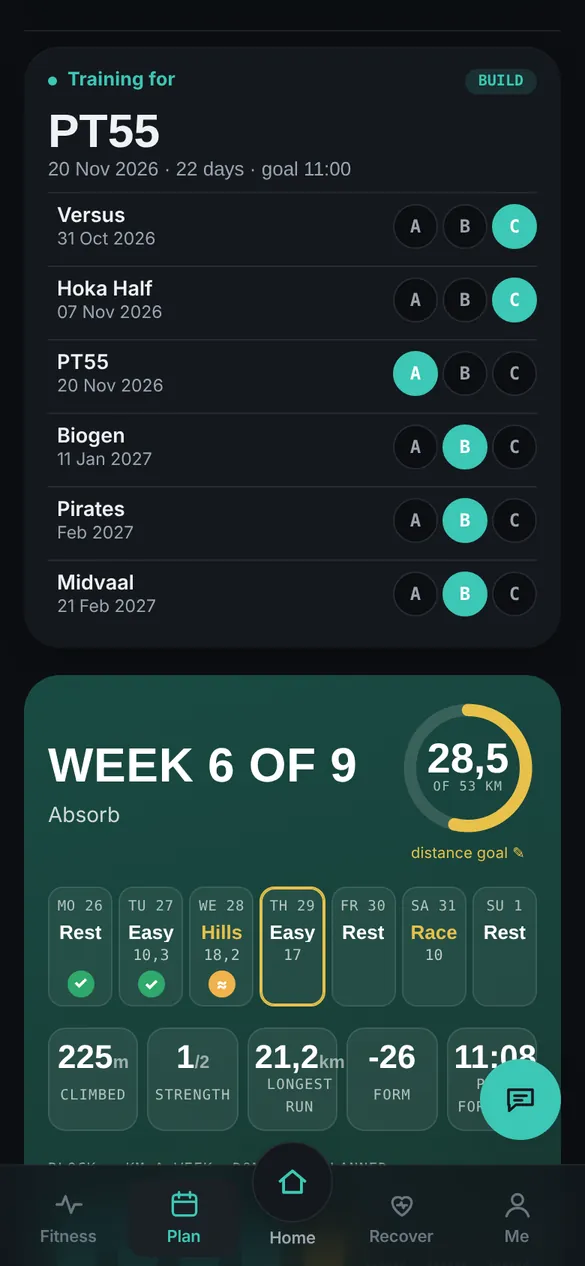
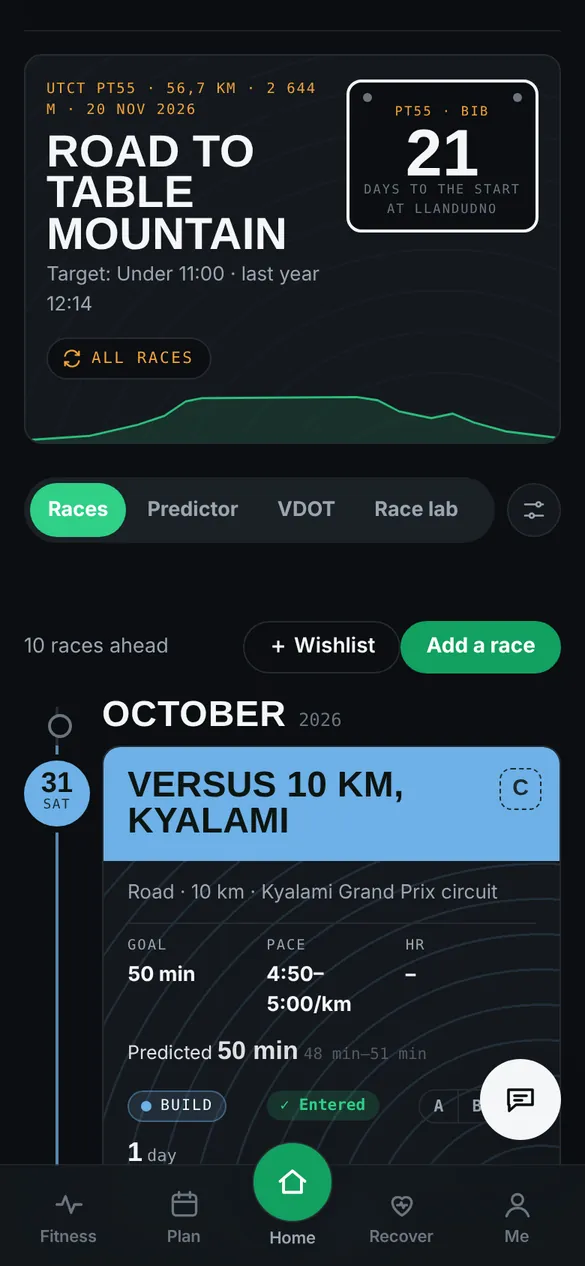
Startline page: new UI screenshots, plus Awards
Claude-Session: https://claude.ai/code/session_01UXXcUucnSfuN5ZBDDhgEJA

diff --git a/app-startline.html b/app-startline.html
@@ -72,7 +72,7 @@
 <section class="section">
   <div class="wrap">
     <div class="head reveal"><div><h2 class="h2">Inside the app<span class="dot">.</span></h2><p class="lead">Real screens from the beta, on our own training.</p></div></div>
-    <div class="shots reveal"><figure class="shot"><div class="shot-frame"><img src="/img/apps/sl-today.webp" alt="Startline, Home screen" width="585" height="1266" loading="lazy"></div><figcaption>Home: today and tomorrow, session by session</figcaption></figure><figure class="shot"><div class="shot-frame"><img src="/img/apps/sl-athlete.webp" alt="Startline, Athlete card screen" width="585" height="1266" loading="lazy"></div><figcaption>Athlete card: six ratings and one overall score</figcaption></figure><figure class="shot"><div class="shot-frame"><img src="/img/apps/sl-efficiency.webp" alt="Startline, Metres per heartbeat screen" width="585" height="1266" loading="lazy"></div><figcaption>Metres per heartbeat: fitness from easy runs</figcaption></figure><figure class="shot"><div class="shot-frame"><img src="/img/apps/sl-race.webp" alt="Startline, Race calendar with A, B and C priorities, and the week in the block screen" width="585" height="1266" loading="lazy"></div><figcaption>Race calendar with A, B and C priorities, and the week in the block</figcaption></figure><figure class="shot"><div class="shot-frame"><img src="/img/apps/sl-week.webp" alt="Startline, Week plan screen" width="585" height="1266" loading="lazy"></div><figcaption>Week plan: changes made from your sessions, day by day</figcaption></figure></div>
+    <div class="shots reveal"><figure class="shot"><div class="shot-frame"><img src="/img/apps/sl-today.webp" alt="Startline, Home screen" width="585" height="1266" loading="lazy"></div><figcaption>Home: today's session, readiness and the coach's tips</figcaption></figure><figure class="shot"><div class="shot-frame"><img src="/img/apps/sl-athlete.webp" alt="Startline, Athlete card screen" width="585" height="1266" loading="lazy"></div><figcaption>Athlete card: six ratings and one overall score</figcaption></figure><figure class="shot"><div class="shot-frame"><img src="/img/apps/sl-efficiency.webp" alt="Startline, Metres per heartbeat screen" width="585" height="1266" loading="lazy"></div><figcaption>Metres per heartbeat: fitness from easy runs</figcaption></figure><figure class="shot"><div class="shot-frame"><img src="/img/apps/sl-race.webp" alt="Startline, Road to race day screen" width="585" height="1266" loading="lazy"></div><figcaption>Road to race day: countdown and every race with A, B and C priorities</figcaption></figure><figure class="shot"><div class="shot-frame"><img src="/img/apps/sl-week.webp" alt="Startline, Plan screen" width="585" height="1266" loading="lazy"></div><figcaption>Plan: the race, the block and the week, adapted from your sessions</figcaption></figure><figure class="shot"><div class="shot-frame"><img src="/img/apps/sl-awards.webp" alt="Startline, Awards screen" width="585" height="1266" loading="lazy"></div><figcaption>Awards: levels, badges, Wrapped and a trophy room</figcaption></figure></div>
   </div>
 </section>
 <section class="section">
